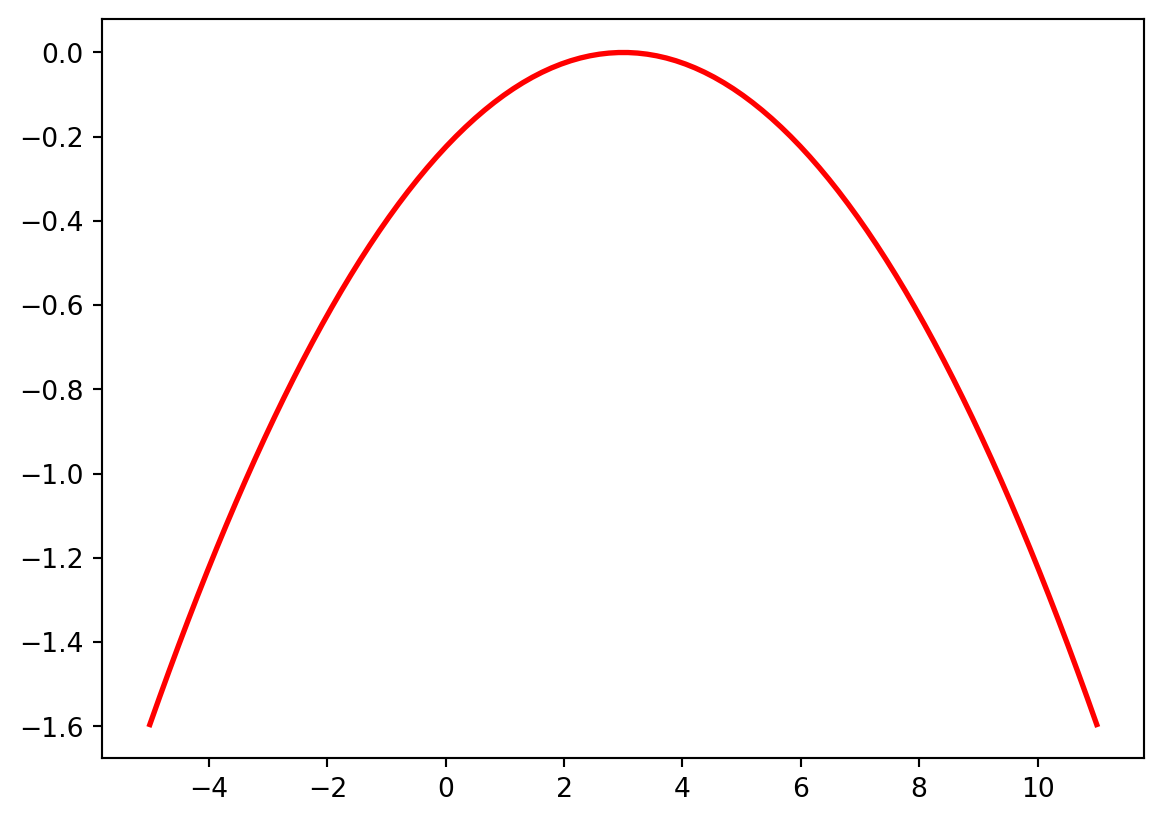
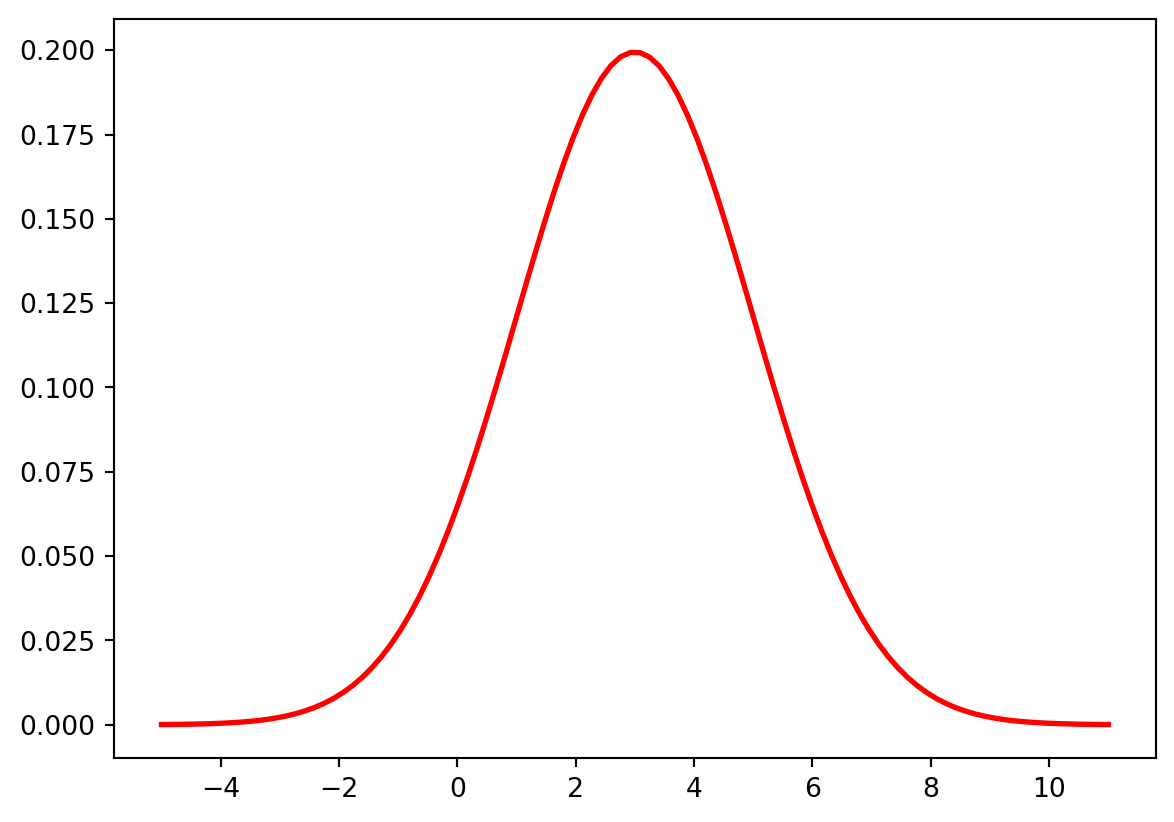
update

diff --git a/docs/blog.html b/docs/blog.html
@@ -224,7 +224,7 @@ window.Quarto = {
 </a>
 </div>
 </div>
-<div class="quarto-post image-right" data-index="1" data-categories="Statistics" data-listing-date-sort="1721833200000" data-listing-file-modified-sort="1721913361952" data-listing-date-modified-sort="NaN" data-listing-reading-time-sort="1" data-listing-word-count-sort="145">
+<div class="quarto-post image-right" data-index="1" data-categories="Statistics" data-listing-date-sort="1721833200000" data-listing-file-modified-sort="1721913860761" data-listing-date-modified-sort="NaN" data-listing-reading-time-sort="1" data-listing-word-count-sort="149">
 <div class="thumbnail">
 <p><a href="./posts/hw5/hw5.html" class="no-external"></a></p><a href="./posts/hw5/hw5.html" class="no-external">
 <p class="card-img-top"><img src="posts\hw5\hw5_files\figure-html\cell-2-output-1.png"  class="thumbnail-image card-img"/></p>
@@ -248,11 +248,11 @@ Statistics
 <ol type="1">
 <li>정규분포 pdf 값을 계산하는 자신만의 파이썬 함수를 정의하고, 정규분포 mu = 3, sigma = 2 의 pdf를 그릴 것.</li>
 </ol>
-<div id="7e2787c5" class="cell" data-execution_count="1">
+<div id="397b2462" class="cell" data-execution_count="1">
 <div class="sourceCode cell-code" id="cb1"><pre class="sourceCode python code-with-copy"><code class="sourceCode python"><span id="cb1-1"><span class="im">import</span> numpy <span class="im">as</span> np</span>
 <span id="cb1-2"><span class="im">import</span> matplotlib.pyplot <span class="im">as</span> plt</span>
 <span id="cb1-3"><span class="kw">def</span> normal(x, mu, sigma):</span>
-<span id="cb1-4">    a<span class="op">=</span> <span class="dv">1</span> <span class="op">/</span> (np.sqrt(<span class="dv">2</span>…<span class="op"></span><span class="op"></span><span class="op"></span><span class="dv"></span></span><span id="cb1-5"><span class="op"></span><span class="op"></span><span class="op"></span><span class="op"></span><span class="dv"></span><span class="op"></span><span class="dv"></span><span class="op"></span><span class="op"></span><span class="dv"></span></span><span id="cb1-6"><span class="cf"></span><span class="op"></span></span><span id="cb1-7"><span class="op"></span><span class="dv"></span></span><span id="cb1-8"><span class="op"></span><span class="dv"></span></span><span id="cb1-9"><span class="op"></span><span class="op"></span><span class="dv"></span><span class="op"></span><span class="op"></span><span class="dv"></span><span class="op"></span><span class="dv"></span></span><span id="cb1-10"><span class="op"></span></span><span id="cb1-11"><span class="op"></span><span class="st"></span><span class="op"></span><span class="dv"></span></span><span id="cb1-12"></span></code></pre></div><div class="cell-output cell-output-display"><div><figure class="figure"><p></p></figure></div></div></div><ol start="2" type="1"><li></li></ol><ul><li></li></ul><ol type="1"><li></li><li></li><li></li></ol><div id="1358350e" class="cell" data-execution_count="2"><div class="sourceCode cell-code" id="cb2"><pre class="sourceCode python code-with-copy"><code class="sourceCode python"><span id="cb2-1"><span class="co"></span></span><span id="cb2-2"><span class="im"></span><span class="im"></span></span><span id="cb2-3"><span class="dv"></span><span class="op"></span><span class="dv"></span><span class="op"></span><span class="dv"></span></span><span id="cb2-4"><span class="co"></span></span><span id="cb2-5"><span class="dv"></span><span class="op"></span><span class="dv"></span><span class="op"></span><span class="dv"></span></span><span id="cb2-6"><span class="co"></span></span><span id="cb2-7"><span class="op"></span><span class="dv"></span><span class="op"></span><span class="dv"></span><span class="op"></span><span class="dv"></span></span><span id="cb2-8"><span class="op"></span><span class="dv"></span><span class="op"></span><span class="dv"></span><span class="op"></span><span class="dv"></span><span class="op"></span><span class="dv"></span></span><span id="cb2-9"><span class="op"></span></span></code></pre></div><div class="cell-output cell-output-display" data-execution_count="8"><pre><code></code></pre></div></div><ol start="3" type="1"><li></li></ol><div id="92fb1763" class="cell" data-execution_count="3"><div class="sourceCode cell-code" id="cb4"><pre class="sourceCode python code-with-copy"><code class="sourceCode python"><span id="cb4-1"><span class="fl"></span><span class="dv"></span><span class="dv"></span></span></code></pre></div><div class="cell-output cell-output-display" data-execution_count="9"><pre><code></code></pre></div></div></a>
+<span id="cb1-4">    a<span class="op">=</span> <span class="dv">1</span> <span class="op">/</span> (np.sqrt(<span class="dv">2</span>…<span class="op"></span><span class="op"></span><span class="op"></span><span class="dv"></span></span><span id="cb1-5"><span class="op"></span><span class="op"></span><span class="op"></span><span class="op"></span><span class="dv"></span><span class="op"></span><span class="dv"></span><span class="op"></span><span class="op"></span><span class="dv"></span></span><span id="cb1-6"><span class="cf"></span><span class="op"></span></span><span id="cb1-7"><span class="op"></span><span class="dv"></span></span><span id="cb1-8"><span class="op"></span><span class="dv"></span></span><span id="cb1-9"><span class="op"></span><span class="op"></span><span class="dv"></span><span class="op"></span><span class="op"></span><span class="dv"></span><span class="op"></span><span class="dv"></span></span><span id="cb1-10"><span class="op"></span></span><span id="cb1-11"><span class="op"></span><span class="st"></span><span class="op"></span><span class="dv"></span></span><span id="cb1-12"></span></code></pre></div><div class="cell-output cell-output-display"><div><figure class="figure"><p></p></figure></div></div></div><ol start="2" type="1"><li></li></ol><ul><li></li></ul><ol type="1"><li></li><li></li><li></li></ol><div id="7fd3a9a0" class="cell" data-execution_count="2"><div class="sourceCode cell-code" id="cb2"><pre class="sourceCode python code-with-copy"><code class="sourceCode python"><span id="cb2-1"><span class="co"></span></span><span id="cb2-2"><span class="im"></span><span class="im"></span></span><span id="cb2-3"><span class="dv"></span><span class="op"></span><span class="dv"></span><span class="op"></span><span class="dv"></span></span><span id="cb2-4"><span class="co"></span></span><span id="cb2-5"><span class="dv"></span><span class="op"></span><span class="dv"></span><span class="op"></span><span class="dv"></span><span class="op"></span><span class="dv"></span><span class="op"></span><span class="dv"></span><span class="op"></span><span class="dv"></span></span><span id="cb2-6"><span class="co"></span></span><span id="cb2-7"><span class="op"></span><span class="dv"></span><span class="op"></span><span class="dv"></span><span class="op"></span><span class="dv"></span></span><span id="cb2-8"><span class="op"></span><span class="dv"></span><span class="op"></span><span class="dv"></span><span class="op"></span><span class="dv"></span><span class="op"></span><span class="dv"></span></span><span id="cb2-9"><span class="op"></span></span></code></pre></div><div class="cell-output cell-output-display" data-execution_count="2"><pre><code></code></pre></div></div><ol start="3" type="1"><li></li></ol><div id="3be39aff" class="cell" data-execution_count="3"><div class="sourceCode cell-code" id="cb4"><pre class="sourceCode python code-with-copy"><code class="sourceCode python"><span id="cb4-1"><span class="fl"></span><span class="dv"></span><span class="dv"></span></span></code></pre></div><div class="cell-output cell-output-display" data-execution_count="3"><pre><code></code></pre></div></div></a>
 </div>
 </div>
 <div class="metadata">

diff --git a/docs/posts/hw5/hw5.html b/docs/posts/hw5/hw5.html
@@ -199,13 +199,13 @@ pre > code.sourceCode > span > a:first-child::before { text-decoration: underlin
 <ol type="1">
 <li>정규분포 pdf 값을 계산하는 자신만의 파이썬 함수를 정의하고, 정규분포 mu = 3, sigma = 2 의 pdf를 그릴 것.</li>
 </ol>
-<div id="7e2787c5" class="cell" data-execution_count="1">
+<div id="397b2462" class="cell" data-execution_count="1">
 <div class="sourceCode cell-code" id="cb1"><pre class="sourceCode python code-with-copy"><code class="sourceCode python"><span id="cb1-1"><a href="#cb1-1" aria-hidden="true" tabindex="-1"></a><span class="im">import</span> numpy <span class="im">as</span> np</span>
 <span id="cb1-2"><a href="#cb1-2" aria-hidden="true" tabindex="-1"></a><span class="im">import</span> matplotlib.pyplot <span class="im">as</span> plt</span>
 <span id="cb1-3"><a href="#cb1-3" aria-hidden="true" tabindex="-1"></a><span class="kw">def</span> normal(x, mu, sigma):</span>
 <span id="cb1-4"><a href="#cb1-4" aria-hidden="true" tabindex="-1"></a>    a<span class="op">=</span> <span class="dv">1</span> <span class="op">/</span> (np.sqrt(<span class="dv">2</span> <span class="op">*</span> np.pi <span class="op">*</span> sigma<span class="op">**</span><span class="dv">2</span>))</span>
 <span id="cb1-5"><a href="#cb1-5" aria-hidden="true" tabindex="-1"></a>    b <span class="op">=</span> <span class="op">-</span>((x <span class="op">-</span> mu)<span class="op">**</span><span class="dv">2</span>) <span class="op">/</span> (<span class="dv">2</span> <span class="op">*</span> sigma<span class="op">**</span><span class="dv">2</span>)</span>
-<span id="cb1-6"><a href="#cb1-6" aria-hidden="true" tabindex="-1"></a>    <span class="cf">return</span> a <span class="op">*</span> b</span>
+<span id="cb1-6"><a href="#cb1-6" aria-hidden="true" tabindex="-1"></a>    <span class="cf">return</span> a <span class="op">*</span> np.exp(b)</span>
 <span id="cb1-7"><a href="#cb1-7" aria-hidden="true" tabindex="-1"></a>mu <span class="op">=</span> <span class="dv">3</span></span>
 <span id="cb1-8"><a href="#cb1-8" aria-hidden="true" tabindex="-1"></a>sigma <span class="op">=</span> <span class="dv">2</span></span>
 <span id="cb1-9"><a href="#cb1-9" aria-hidden="true" tabindex="-1"></a>x <span class="op">=</span> np.linspace(mu <span class="op">-</span> <span class="dv">4</span><span class="op">*</span>sigma, mu <span class="op">+</span> <span class="dv">4</span><span class="op">*</span>sigma, <span class="dv">100</span>)</span>
@@ -215,7 +215,7 @@ pre > code.sourceCode > span > a:first-child::before { text-decoration: underlin
 <div class="cell-output cell-output-display">
 <div>
 <figure class="figure">
-<p><img src="hw5_files/figure-html/cell-2-output-1.png" width="582" height="411" class="figure-img"></p>
+<p><img src="hw5_files/figure-html/cell-2-output-1.png" width="587" height="411" class="figure-img"></p>
 </figure>
 </div>
 </div>
@@ -231,26 +231,26 @@ pre > code.sourceCode > span > a:first-child::before { text-decoration: underlin
 <li>P(2 &lt; X &lt; 5)</li>
 <li>P(X &lt; 3 or X &gt; 7)</li>
 </ol>
-<div id="1358350e" class="cell" data-execution_count="2">
+<div id="7fd3a9a0" class="cell" data-execution_count="2">
 <div class="sourceCode cell-code" id="cb2"><pre class="sourceCode python code-with-copy"><code class="sourceCode python"><span id="cb2-1"><a href="#cb2-1" aria-hidden="true" tabindex="-1"></a><span class="co"># 1)</span></span>
 <span id="cb2-2"><a href="#cb2-2" aria-hidden="true" tabindex="-1"></a><span class="im">from</span> scipy.stats <span class="im">import</span> norm</span>
-<span id="cb2-3"><a href="#cb2-3" aria-hidden="true" tabindex="-1"></a>norm.pdf(<span class="dv">3</span>, loc<span class="op">=</span><span class="dv">2</span>, scale<span class="op">=</span><span class="dv">3</span>)</span>
+<span id="cb2-3"><a href="#cb2-3" aria-hidden="true" tabindex="-1"></a>norm.cdf(<span class="dv">3</span>, loc<span class="op">=</span><span class="dv">2</span>, scale<span class="op">=</span><span class="dv">3</span>)</span>
 <span id="cb2-4"><a href="#cb2-4" aria-hidden="true" tabindex="-1"></a><span class="co">#2)</span></span>
-<span id="cb2-5"><a href="#cb2-5" aria-hidden="true" tabindex="-1"></a>norm.pdf(<span class="dv">5</span>, loc<span class="op">=</span><span class="dv">2</span>, scale<span class="op">=</span><span class="dv">3</span>)</span>
+<span id="cb2-5"><a href="#cb2-5" aria-hidden="true" tabindex="-1"></a>norm.cdf(<span class="dv">5</span>, loc<span class="op">=</span><span class="dv">2</span>, scale<span class="op">=</span><span class="dv">3</span>) <span class="op">-</span> norm.cdf(<span class="dv">2</span>, loc<span class="op">=</span><span class="dv">2</span>, scale<span class="op">=</span><span class="dv">3</span>)</span>
 <span id="cb2-6"><a href="#cb2-6" aria-hidden="true" tabindex="-1"></a><span class="co">#3)</span></span>
-<span id="cb2-7"><a href="#cb2-7" aria-hidden="true" tabindex="-1"></a>p1 <span class="op">=</span> norm.pdf(<span class="dv">3</span>, loc<span class="op">=</span><span class="dv">2</span>, scale<span class="op">=</span><span class="dv">3</span>)</span>
-<span id="cb2-8"><a href="#cb2-8" aria-hidden="true" tabindex="-1"></a>p2 <span class="op">=</span> <span class="dv">1</span> <span class="op">-</span> norm.pdf(<span class="dv">7</span>, loc<span class="op">=</span><span class="dv">2</span>, scale<span class="op">=</span><span class="dv">3</span>)</span>
+<span id="cb2-7"><a href="#cb2-7" aria-hidden="true" tabindex="-1"></a>p1 <span class="op">=</span> norm.cdf(<span class="dv">3</span>, loc<span class="op">=</span><span class="dv">2</span>, scale<span class="op">=</span><span class="dv">3</span>)</span>
+<span id="cb2-8"><a href="#cb2-8" aria-hidden="true" tabindex="-1"></a>p2 <span class="op">=</span> <span class="dv">1</span> <span class="op">-</span> norm.cdf(<span class="dv">7</span>, loc<span class="op">=</span><span class="dv">2</span>, scale<span class="op">=</span><span class="dv">3</span>)</span>
 <span id="cb2-9"><a href="#cb2-9" aria-hidden="true" tabindex="-1"></a>p1<span class="op">+</span>p2</span></code><button title="Copy to Clipboard" class="code-copy-button"><i class="bi"></i></button></pre></div>
-<div class="cell-output cell-output-display" data-execution_count="8">
-<pre><code>np.float64(1.0926353629667482)</code></pre>
+<div class="cell-output cell-output-display" data-execution_count="2">
+<pre><code>np.float64(0.678349012091051)</code></pre>
 </div>
 </div>
 <ol start="3" type="1">
 <li>LS 빅데이터 스쿨 학생들의 중간고사 점수는 평균이 30이고, 분산이 4인 정규분포를 따른다. 상위 5%에 해당하는 학생의 점수는?</li>
 </ol>
-<div id="92fb1763" class="cell" data-execution_count="3">
+<div id="3be39aff" class="cell" data-execution_count="3">
 <div class="sourceCode cell-code" id="cb4"><pre class="sourceCode python code-with-copy"><code class="sourceCode python"><span id="cb4-1"><a href="#cb4-1" aria-hidden="true" tabindex="-1"></a>norm.ppf(<span class="fl">0.95</span>, <span class="dv">30</span>, <span class="dv">2</span>)</span></code><button title="Copy to Clipboard" class="code-copy-button"><i class="bi"></i></button></pre></div>
-<div class="cell-output cell-output-display" data-execution_count="9">
+<div class="cell-output cell-output-display" data-execution_count="3">
 <pre><code>np.float64(33.28970725390295)</code></pre>
 </div>
 </div>
